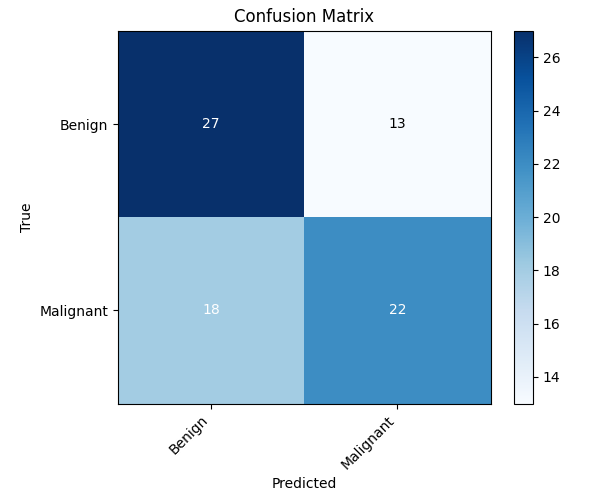
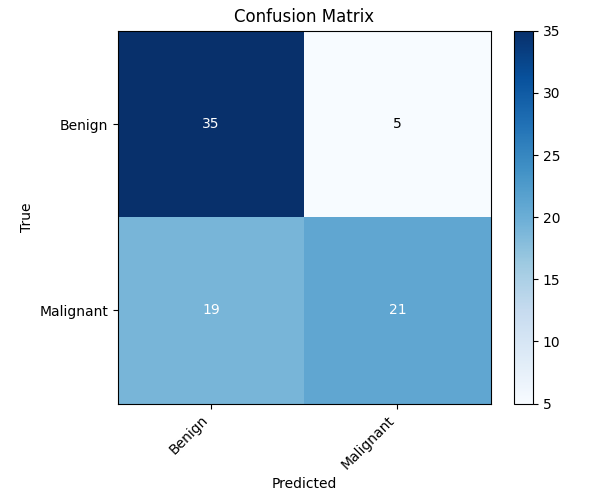
MRI Classification CNN

diff --git a/Breast_Cancer_MRI/test.py b/Breast_Cancer_MRI/test.py
@@ -1,5 +1,6 @@
 import torch
-from torch import nn, optim
+from torch import nn
+import pandas as pd
 import torch.nn.functional as F
 from torchvision import transforms
 import matplotlib.pyplot as plt
@@ -7,7 +8,7 @@ import os
 import numpy as np
 from torch.utils.data import DataLoader
 from torchvision.datasets import ImageFolder
-from sklearn.metrics import classification_report, confusion_matrix, accuracy_score
+from sklearn.metrics import classification_report, confusion_matrix
 import random
 
 
@@ -42,6 +43,12 @@ batch_size = 32
 
 test_loader = DataLoader(
     test_dataset, batch_size=batch_size, shuffle=False, num_workers=num_workers)
+
+"""
+##############################################
+    Define the CNN Architecture
+##############################################
+"""
 
 
 class GaussianNoise(nn.Module):
@@ -86,30 +93,30 @@ class MRI_CNN(nn.Module):
             nn.Dropout2d(0.2),
             nn.MaxPool2d(2, 2),  # Downsample: 135x62 -> 67x31
 
-            # nn.Conv2d(128, 256, kernel_size=3, padding=1),
-            # nn.BatchNorm2d(256),
-            # nn.ReLU(),
-            # nn.Dropout2d(0.35),
-            # nn.MaxPool2d(2, 2)   # Downsample: 67x31 -> 33x15
+            nn.Conv2d(128, 256, kernel_size=3, padding=1),
+            nn.BatchNorm2d(256),
+            nn.ReLU(),
+            nn.Dropout2d(0.35),
+            nn.MaxPool2d(2, 2)   # Downsample: 67x31 -> 33x15
         )
-        flattened_size = 128 * (67 * 31)
+        flattened_size = 256 * (33 * 15)
 
         self.fc_layers = nn.Sequential(
 
             GaussianNoise(0.25),
-            nn.Linear(flattened_size, 128),
-            nn.BatchNorm1d(128),
+            nn.Linear(flattened_size, 256),
+            nn.BatchNorm1d(256),
             nn.ReLU(),
             nn.Dropout(0.25),  # dropout to prevent overfitting
 
             # 2nd hidden layer
-            nn.Linear(128, 64),
-            nn.BatchNorm1d(64),
+            nn.Linear(256, 128),
+            nn.BatchNorm1d(128),
             nn.ReLU(),
             nn.Dropout(0.25),
             # output layer
 
-            nn.Linear(64, 2)  # 128 (hidden layer) → 2 (output classes)
+            nn.Linear(128, 2)  # 128 (hidden layer) → 2 (output classes)
         )
 
     def forward(self, x):
@@ -153,9 +160,10 @@ def test_model():
             preds = outputs.argmax(dim=1)
             all_preds.extend(preds.cpu().numpy().tolist())
             all_true.extend(target.cpu().numpy().tolist())
-        test_acc = (np.array(all_preds) == np.array(all_true)).mean()
+
         print('Test Accuracy of the model on the test images: {} %'.format(
             100 * correct / total))
+
     return
 
 
@@ -165,7 +173,12 @@ test_model()
 # Classification Report
 print("\nClassification report:\n")
 print(classification_report(all_true, all_preds, target_names=class_names))
-
+report = classification_report(
+    all_true, all_preds, target_names=class_names, output_dict=True
+)
+# Convert the report dictionary to a pandas DataFrame
+df_report = pd.DataFrame(report).transpose()
+df_report.to_csv('Breast_Cancer_MRI/Results/Classification_Report.csv')
 
 # Confusion Matrix
 cm = confusion_matrix(all_true, all_preds)
@@ -212,7 +225,7 @@ def show_random_test_predictions(model, dataset, n=8):
     plt.figure(figsize=(3*cols, 3*rows))
     for i in range(n):
         plt.subplot(rows, cols, i+1)
-        img = imgs[i].squeeze(0).cpu().numpy()       # (48,48)
+        img = imgs[i].squeeze(0).cpu().numpy()
         plt.imshow(img, cmap="gray")
         true_label = class_names[labels[i]]
         pred_label = class_names[preds[i].item()]

diff --git a/Breast_Cancer_MRI/breastmri_CNN_training.py b/Breast_Cancer_MRI/breastmri_CNN_training.py
@@ -19,7 +19,7 @@ Datset publicly available through Kaggle at: https://www.kaggle.com/datasets/uza
 
 
 data_path = 'Breast_Cancer_MRI/mridataset'
-
+os.makedirs('Breast_Cancer_MRI/Results', exist_ok=True)
 datasets = os.listdir(data_path)
 
 # List class folders in each split
@@ -155,30 +155,30 @@ class MRI_CNN(nn.Module):
             nn.Dropout2d(0.2),
             nn.MaxPool2d(2, 2),  # Downsample: 135x62 -> 67x31
 
-            # nn.Conv2d(128, 256, kernel_size=3, padding=1),
-            # nn.BatchNorm2d(256),
-            # nn.ReLU(),
-            # nn.Dropout2d(0.35),
-            # nn.MaxPool2d(2, 2)   # Downsample: 67x31 -> 33x15
+            nn.Conv2d(128, 256, kernel_size=3, padding=1),
+            nn.BatchNorm2d(256),
+            nn.ReLU(),
+            nn.Dropout2d(0.35),
+            nn.MaxPool2d(2, 2)   # Downsample: 67x31 -> 33x15
         )
-        flattened_size = 128 * (67 * 31)
+        flattened_size = 256 * (33 * 15)
 
         self.fc_layers = nn.Sequential(
 
             GaussianNoise(0.25),
-            nn.Linear(flattened_size, 128),
-            nn.BatchNorm1d(128),
+            nn.Linear(flattened_size, 256),
+            nn.BatchNorm1d(256),
             nn.ReLU(),
             nn.Dropout(0.25),  # dropout to prevent overfitting
 
             # 2nd hidden layer
-            nn.Linear(128, 64),
-            nn.BatchNorm1d(64),
+            nn.Linear(256, 128),
+            nn.BatchNorm1d(128),
             nn.ReLU(),
             nn.Dropout(0.25),
             # output layer
 
-            nn.Linear(64, 2)  # 128 (hidden layer) → 2 (output classes)
+            nn.Linear(128, 2)  # 128 (hidden layer) → 2 (output classes)
         )
 
     def forward(self, x):
